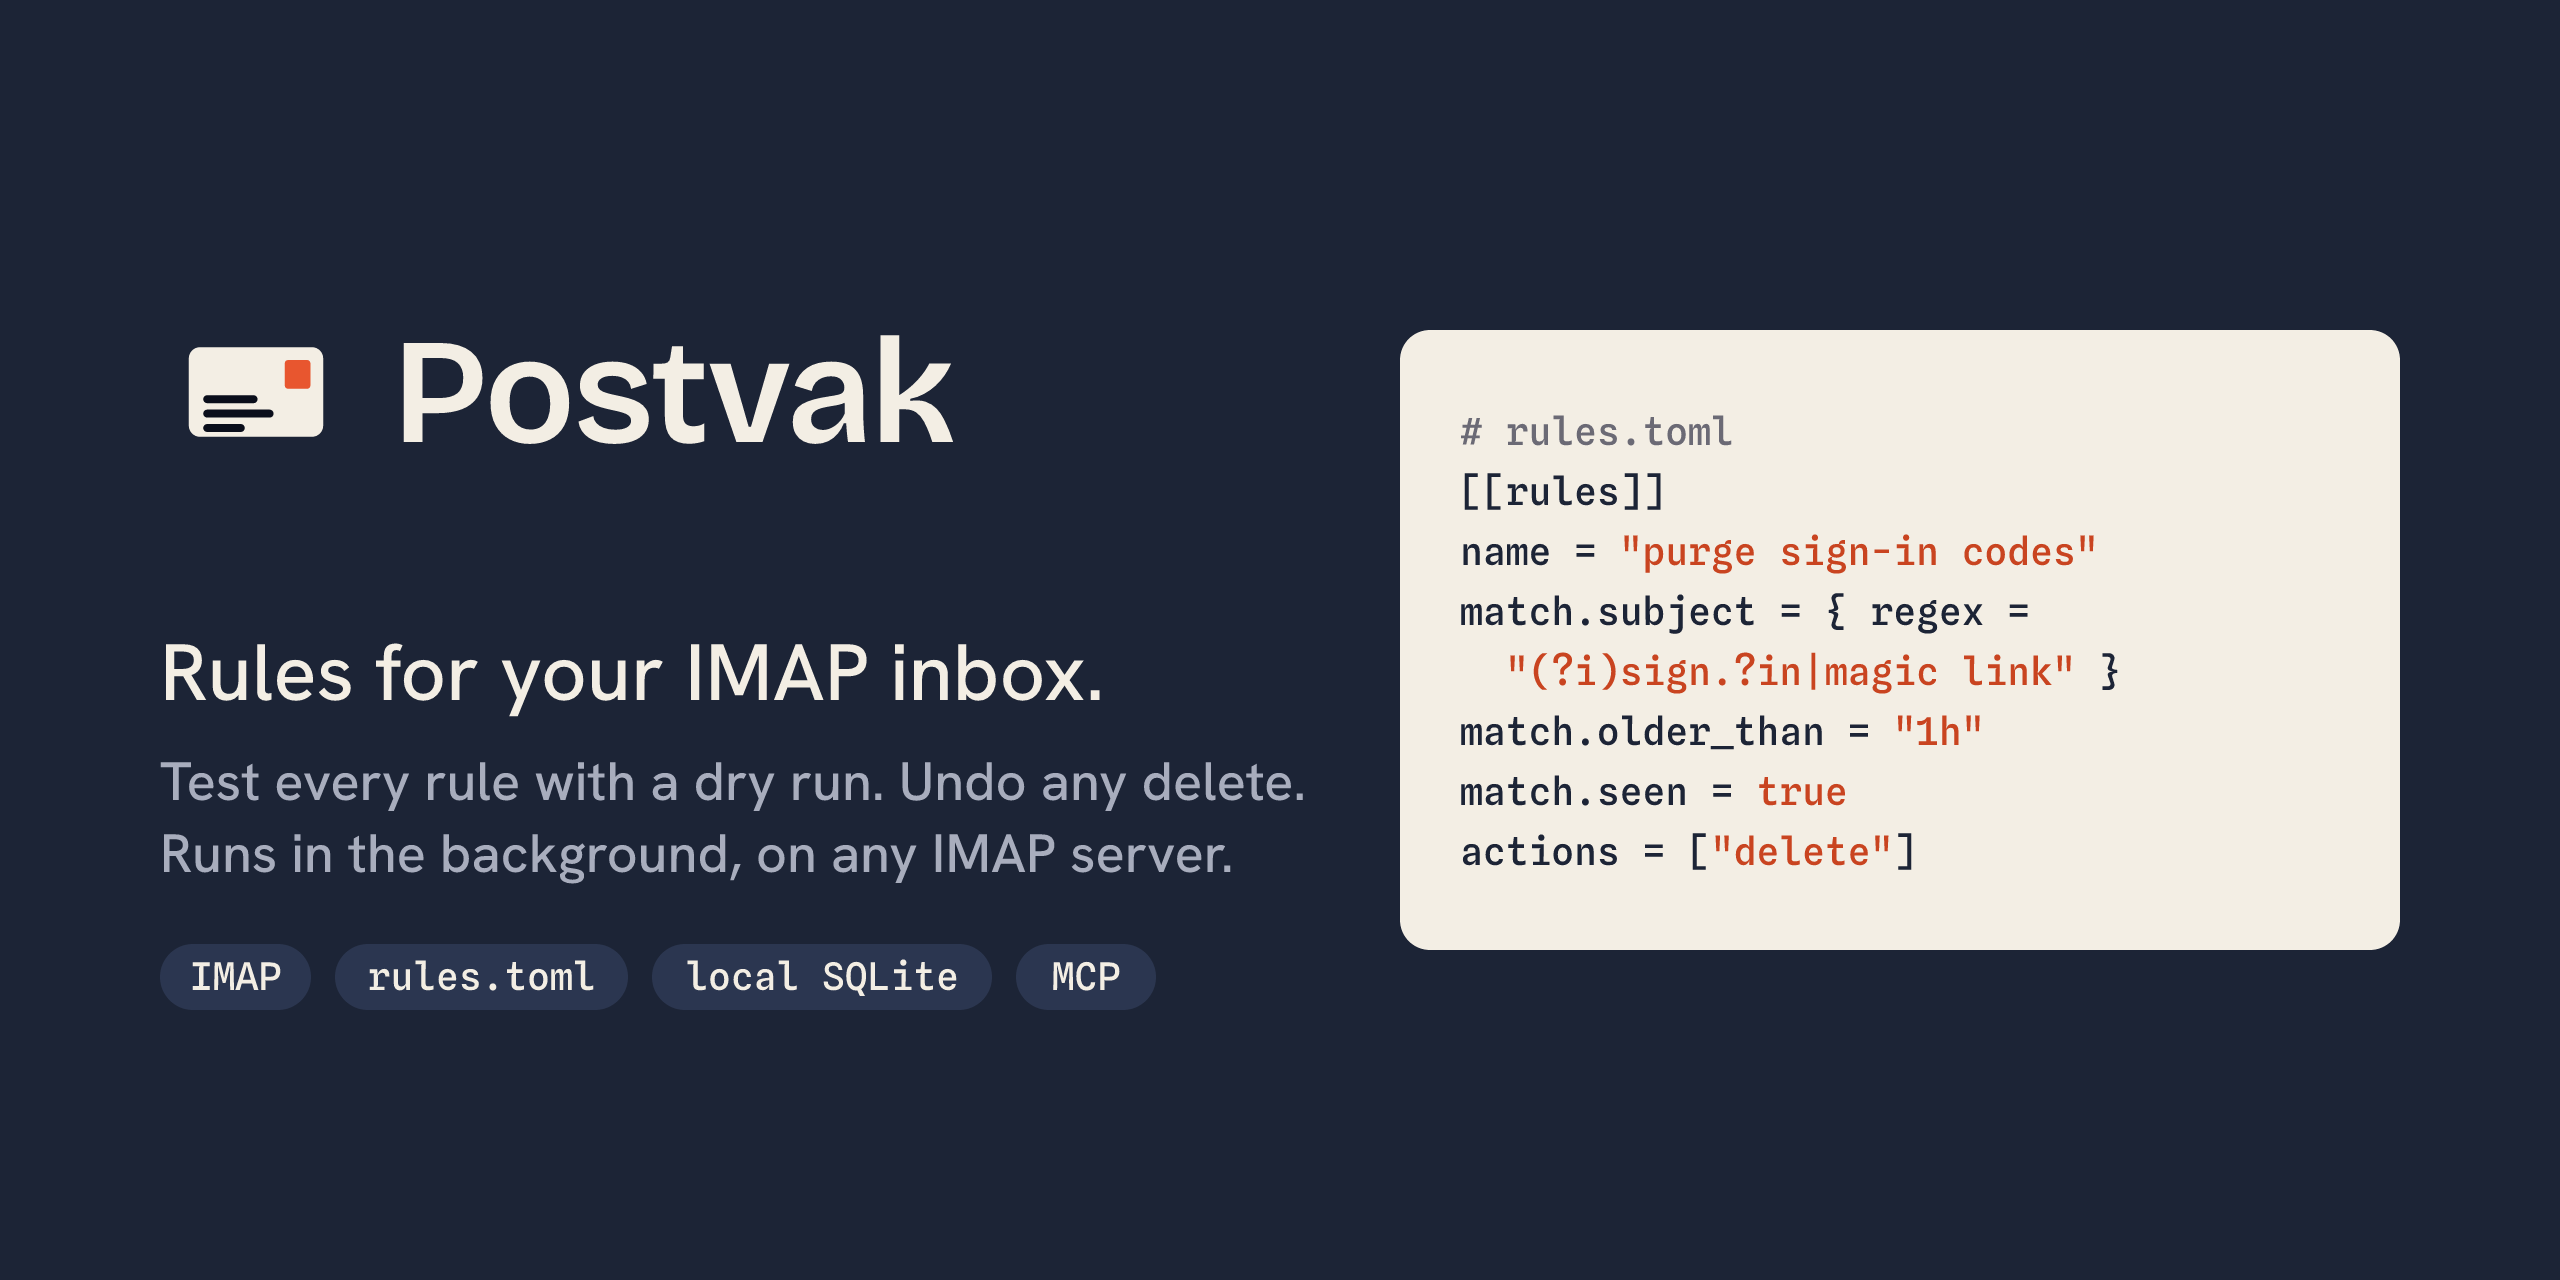
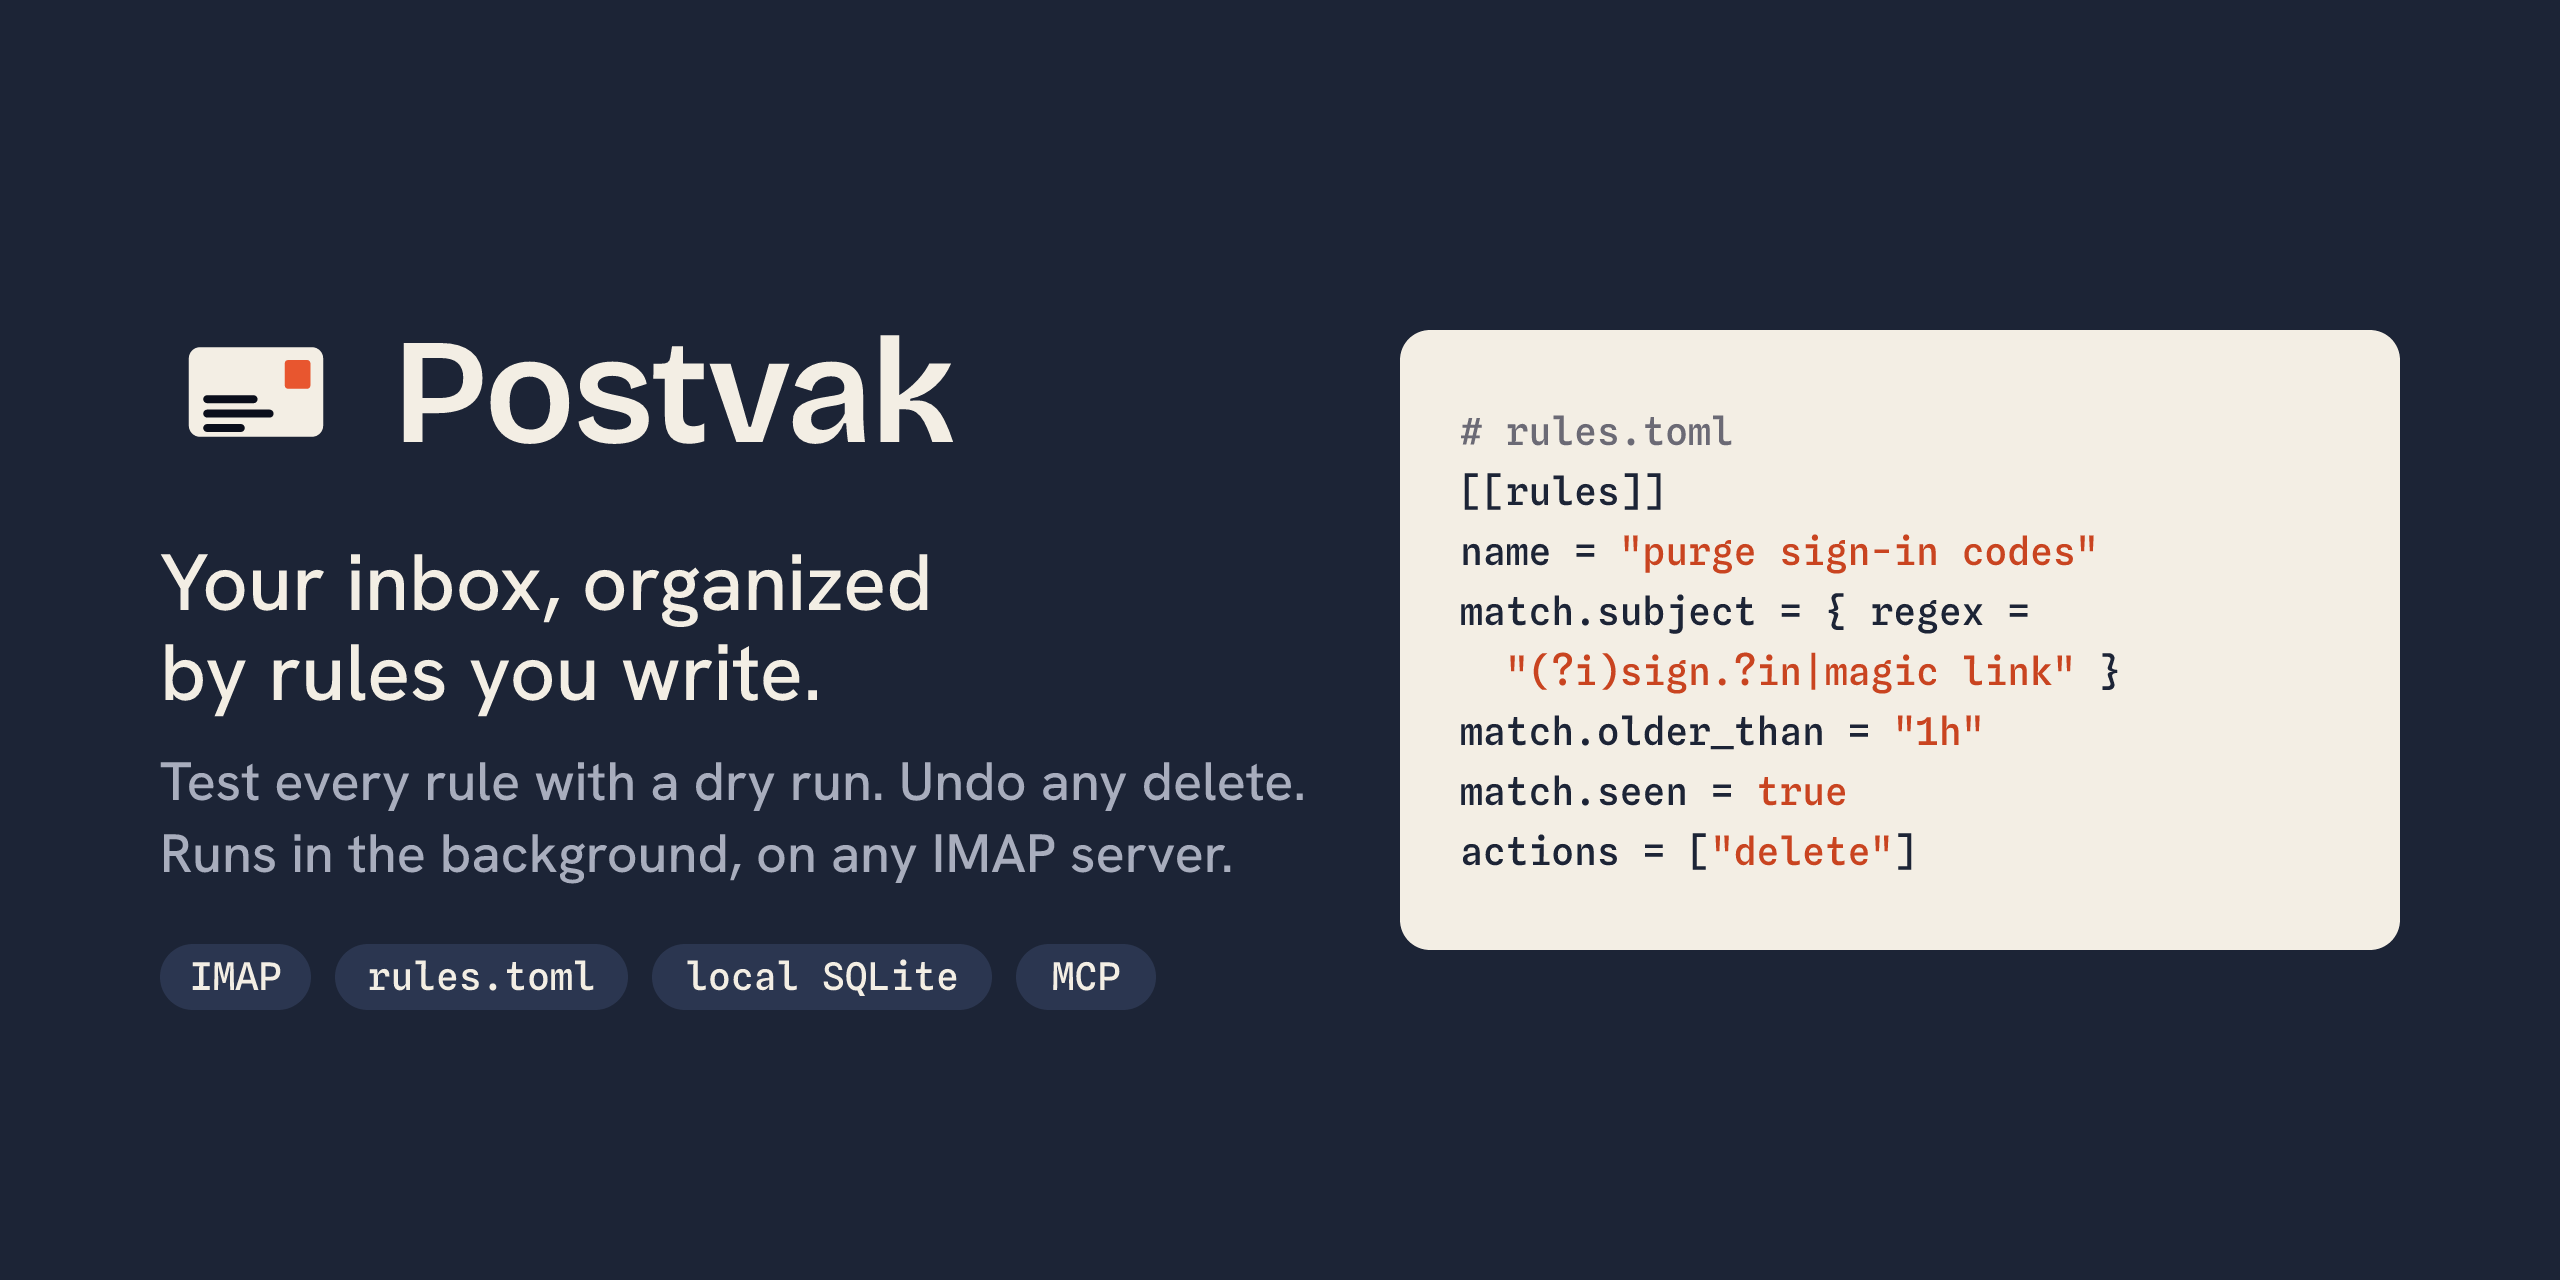
docs: new tagline "Your inbox, organized by rules you write."
Used in the README, docs landing page, og:description, social preview, crate and CLI description and the Linux metainfo summary.

Changed region(s): [[0.0625, 0.4375, 0.4375, 0.5625]]

diff --git a/src/cli/mod.rs b/src/cli/mod.rs
@@ -24,7 +24,7 @@ use postvak_core::trash::Trash;
 #[command(
     name = "postvak",
     version,
-    about = "A fast, simple mail client with automatic mailbox rules"
+    about = "Your inbox, organized by rules you write"
 )]
 struct Cli {
     #[command(subcommand)]

diff --git a/README.md b/README.md
@@ -8,7 +8,7 @@
 
 # Postvak
 
-Rules for your IMAP inbox. Test them with a [dry run](https://postvak.pataar.nl/cli.html#postvak-rules-test) and [undo any delete](https://postvak.pataar.nl/cli.html#postvak-trash-restore). Postvak syncs your mail into a local store and runs your rules: move mail into folders, mark it read, or delete transient mail such as sign-in codes and magic links once you no longer need it. Without rules, it leaves your mail alone.
+Your inbox, organized by rules you write. Test them with a [dry run](https://postvak.pataar.nl/cli.html#postvak-rules-test) and [undo any delete](https://postvak.pataar.nl/cli.html#postvak-trash-restore). Postvak syncs your mail into a local store and runs your rules: move mail into folders, mark it read, or delete transient mail such as sign-in codes and magic links once you no longer need it. Without rules, it leaves your mail alone.
 
 It runs headless as a [background service](https://postvak.pataar.nl/daemon.html), at login, [on a server](https://postvak.pataar.nl/daemon.html#on-a-server) or [in Docker](https://postvak.pataar.nl/daemon.html#docker). On top come a keyboard-driven [mail window](https://postvak.pataar.nl/gui.html) for reading (`postvak gui`), a full [command line](https://postvak.pataar.nl/cli.html), and an MCP server for agents (see [Agents over MCP](https://postvak.pataar.nl/mcp.html)). Postvak reads and sorts mail; it does not send it. It runs on macOS and Linux; see [Install](https://postvak.pataar.nl/install.html).
 

diff --git a/docs/src/index.md b/docs/src/index.md
@@ -1,6 +1,6 @@
 # Postvak
 
-Rules for your IMAP inbox. Test them with a [dry run](https://postvak.pataar.nl/cli.html#postvak-rules-test) and [undo any delete](https://postvak.pataar.nl/cli.html#postvak-trash-restore). Postvak syncs your mail into a local store and runs your rules: move mail into folders, mark it read, or delete transient mail such as sign-in codes and magic links once you no longer need it. Without rules, it leaves your mail alone.
+Your inbox, organized by rules you write. Test them with a [dry run](https://postvak.pataar.nl/cli.html#postvak-rules-test) and [undo any delete](https://postvak.pataar.nl/cli.html#postvak-trash-restore). Postvak syncs your mail into a local store and runs your rules: move mail into folders, mark it read, or delete transient mail such as sign-in codes and magic links once you no longer need it. Without rules, it leaves your mail alone.
 
 It runs headless as a [background service](https://postvak.pataar.nl/daemon.html), at login, [on a server](https://postvak.pataar.nl/daemon.html#on-a-server) or [in Docker](https://postvak.pataar.nl/daemon.html#docker). On top come a keyboard-driven [mail window](https://postvak.pataar.nl/gui.html) for reading (`postvak gui`), a full [command line](https://postvak.pataar.nl/cli.html), and an MCP server for agents (see [Agents over MCP](https://postvak.pataar.nl/mcp.html)). Postvak reads and sorts mail; it does not send it. It runs on macOS and Linux; see [Install](https://postvak.pataar.nl/install.html).
 

diff --git a/docs/src/cli.md b/docs/src/cli.md
@@ -57,7 +57,7 @@ This document contains the help content for the `postvak` command-line program.
 
 ## `postvak`
 
-A fast, simple mail client with automatic mailbox rules
+Your inbox, organized by rules you write
 
 **Usage:** `postvak <COMMAND>`
 
